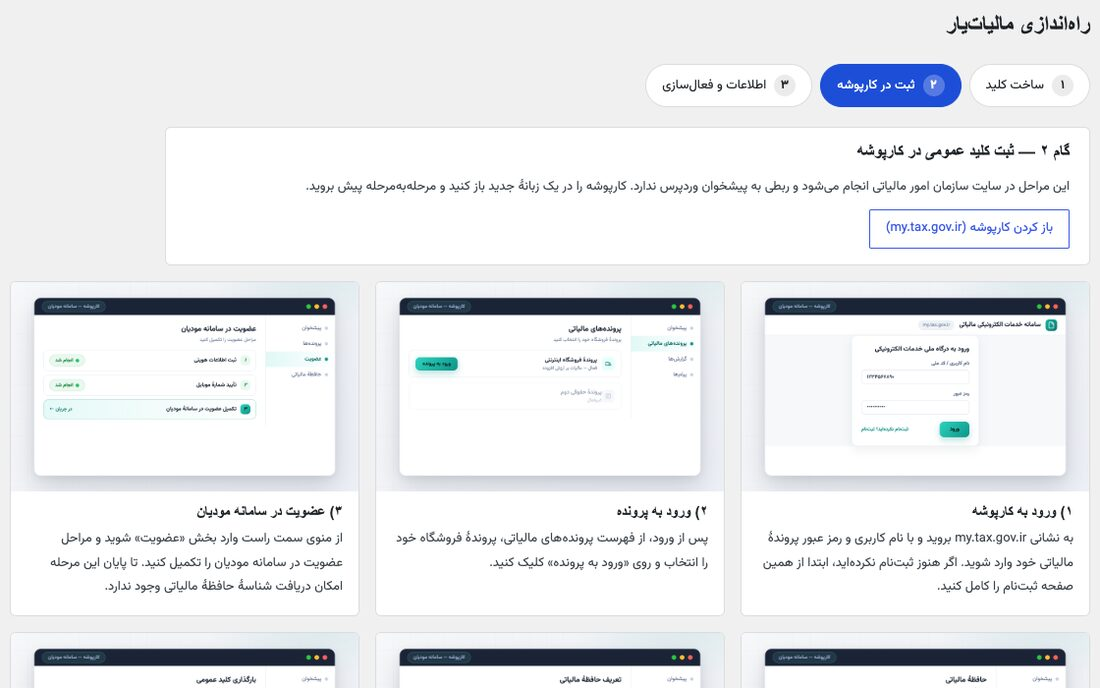
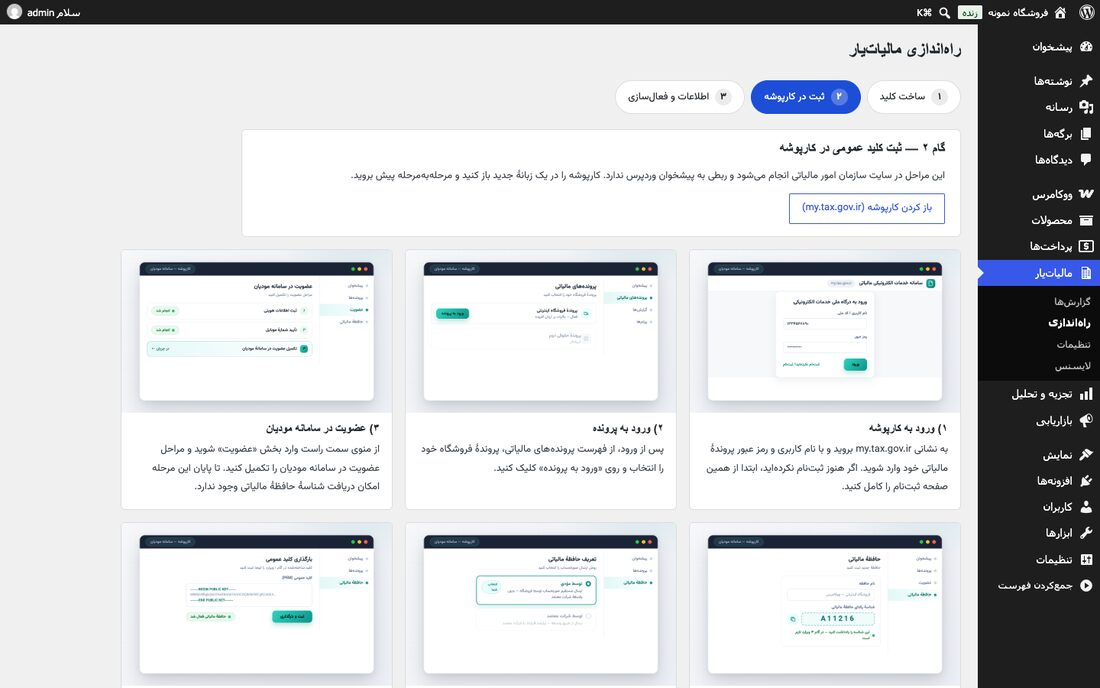
maliatyar: 1.4.0 shots and infographic; buttons point into the page until the Zhaket listing is live
No other marketplace is named or linked anywhere on the landing.

diff --git a/maliatyar/index.html b/maliatyar/index.html
@@ -99,7 +99,7 @@ footer{border-top:1px solid var(--line);padding:26px 0 40px;color:var(--mut);fon
       <a href="#how">نحوهٔ کار</a>
       <a href="#faq">سوالات</a>
     </nav>
-    <a class="cta" href="https://www.rtl-theme.com/author/tincome/products/">خرید از راستچین</a>
+    <a class="cta" href="#shots">تصاویر افزونه</a>
   </div>
 </header>
 
@@ -111,7 +111,7 @@ footer{border-top:1px solid var(--line);padding:26px 0 40px;color:var(--mut);fon
       <h1>صورتحساب الکترونیکی، <em>بدون دردسرِ</em> سامانه مودیان</h1>
       <p class="sub">افزونه «مالیاتیار» سفارشهای ووکامرس را خودکار به صورتحساب الکترونیکی تبدیل و مستقیم به سامانه مودیان سازمان امور مالیاتی ارسال میکند — کلیدسازی، آموزش و اتصال، همه داخل افزونه.</p>
       <div class="acts">
-        <a class="btn btn-a" href="https://www.rtl-theme.com/author/tincome/products/">خرید از راستچین</a>
+        <a class="btn btn-a" href="#features">امکانات افزونه</a>
         <a class="btn btn-g" href="#shots">مشاهدهٔ تصاویر محصول</a>
       </div>
       <div class="badges">
@@ -213,7 +213,7 @@ footer{border-top:1px solid var(--line);padding:26px 0 40px;color:var(--mut);fon
   <div class="final">
     <h2>فصل جدید صورتحسابهای فروشگاهتان</h2>
     <p>الان مالیاتیار را نصب کنید و از جریمهٔ نبودن در سامانه مودیان دور بمانید.</p>
-    <a class="btn btn-a" href="https://www.rtl-theme.com/author/tincome/products/">خرید افزونه از راستچین</a>
+    <a class="btn btn-a" href="#shots">مشاهدهٔ تصاویر افزونه</a>
   </div>
 </div>
 
